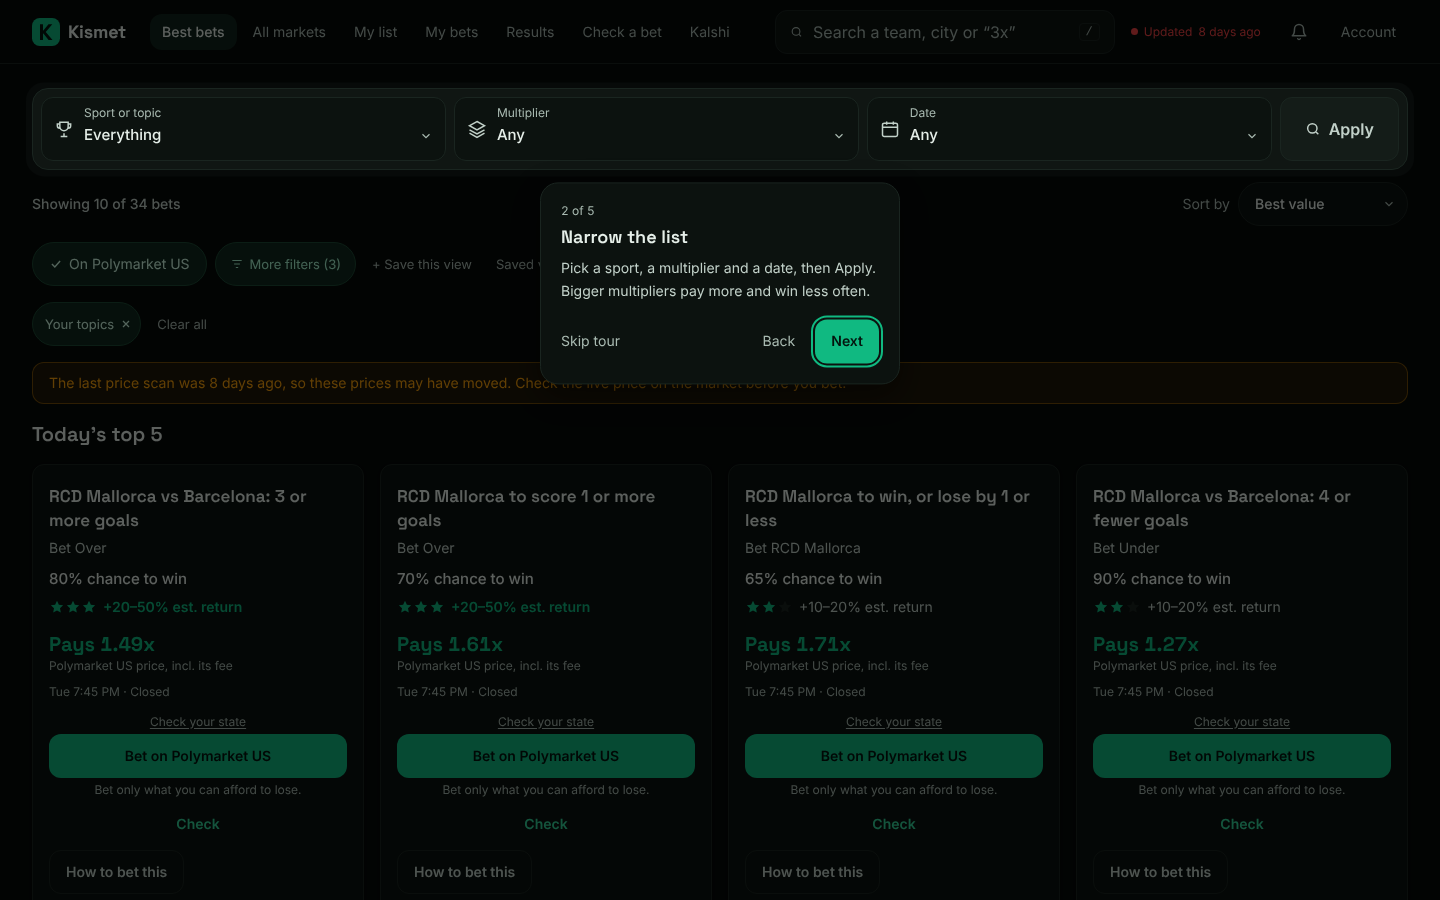
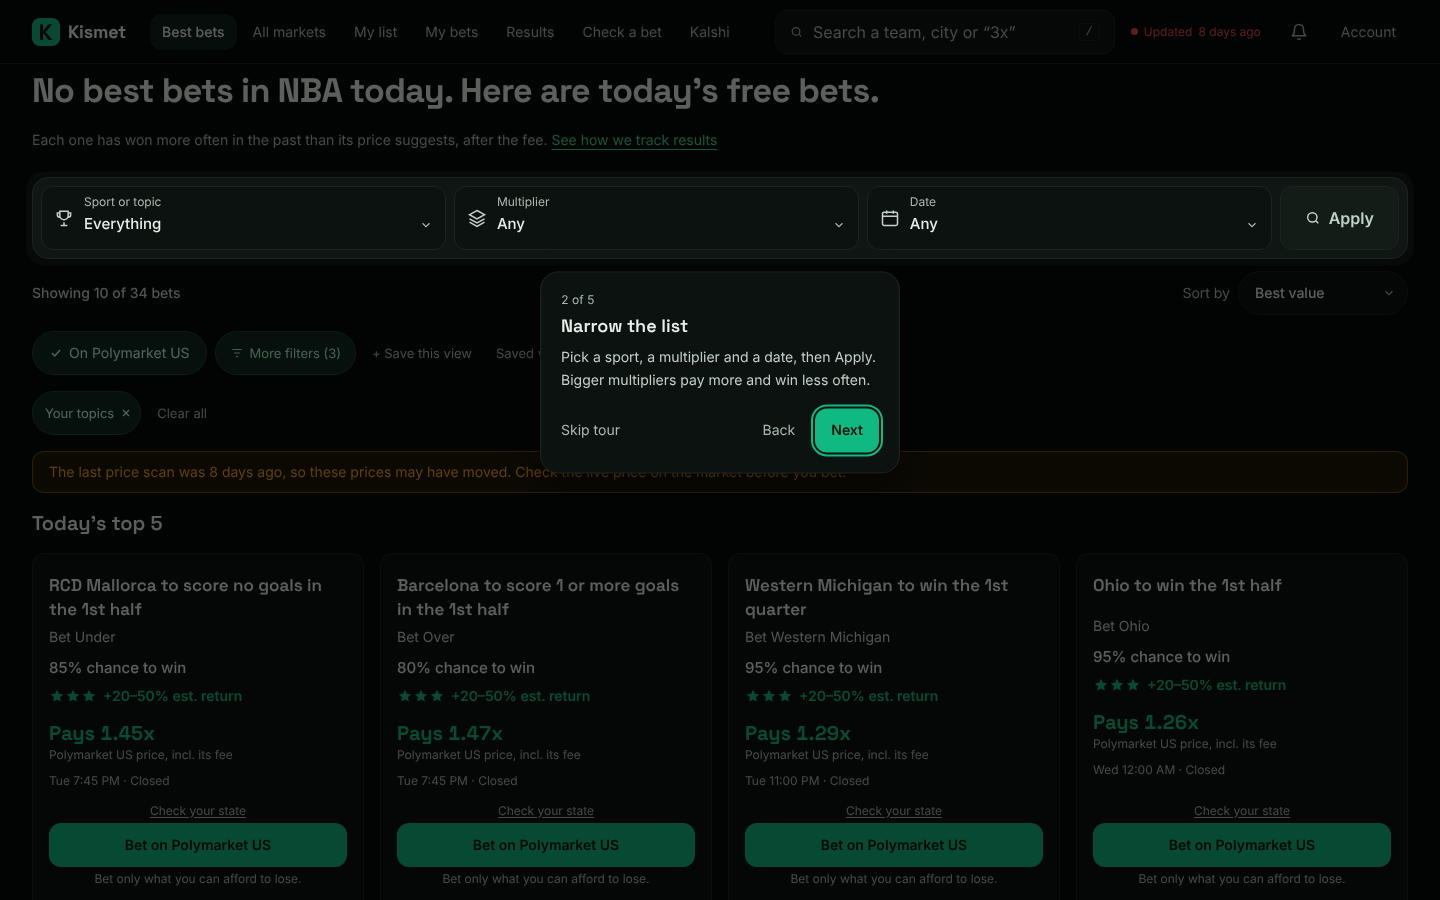
T-wt2f: tour skips hidden targets, never scrolls for pinned ones, scrolls minimally, restores scroll
Claude-Session: https://claude.ai/code/session_01Xq7uwd4fAao58TRNq55oo4

diff --git a/apps/web/e2e-paid/launch-wt2f-tour.spec.ts b/apps/web/e2e-paid/launch-wt2f-tour.spec.ts
@@ -39,46 +39,83 @@ async function setTopics(page: Page, topic: string) {
   expect(res.status()).toBeLessThan(300);
 }
 
-/** Walk the five steps; each spotlight must be fully inside the viewport, above the tab bar, and not covered by the tour card. */
-async function walk(page: Page, label: string) {
-  const dialog = page.getByTestId("tour").getByRole("dialog");
-  await expect(page.getByRole("dialog", { name: "A best bet" })).toBeVisible({ timeout: 60_000 });
+/** Walk the tour's steps; each spotlight must be fully inside the viewport, above the tab bar, and not covered by the tour card, and the
+ *  tour card must not sit under the tab bar. Logs the scroll per step (evidence for "no needless scrolling"). */
+async function walk(page: Page, label: string, expectStart?: string) {
+  const tour = page.getByTestId("tour");
+  const dialog = tour.getByRole("dialog");
+  await expect(tour).toBeVisible({ timeout: 60_000 });
+  if (expectStart) await expect(page.getByRole("dialog", { name: expectStart })).toBeVisible();
   const vh = page.viewportSize()!.height;
-  for (let i = 1; i <= 5; i++) {
-    await expect(page.getByText(`${i} of 5`)).toBeVisible();
+  const y0 = await page.evaluate(() => scrollY);
+  const log: string[] = [];
+  let prevY = y0;
+  for (let n = 0; n < 5; n++) {
+    const i = Number((await tour.getByText(/^\d of 5$/).innerText()).slice(0, 1));
     await page.waitForTimeout(900);   // the scroll and the 300 ms glide settle
-    const spot = await page.getByTestId("tour-spot").boundingBox();
+    const spot = (await page.getByTestId("tour-spot").count()) ? await page.getByTestId("tour-spot").boundingBox() : null;
     const card = (await dialog.boundingBox())!;
     const nav = page.locator('nav.fixed[aria-label="Main"]');
     const navTop = (await nav.isVisible()) ? (await nav.boundingBox())!.y : vh;
-    expect(spot, `${label} step ${i}: a spotlight`).not.toBeNull();
-    const s = spot!;
+    const y = await page.evaluate(() => scrollY);
+    log.push(`${i}:${Math.round(y - y0)}`);
+    expect(card.y + card.height, `${label} step ${i}: the tour card is above the tab bar`).toBeLessThanOrEqual(navTop + 0.5);
+    expect(card.y, `${label} step ${i}: the tour card is on screen`).toBeGreaterThanOrEqual(0);
+    if (!spot) { expect(label, `${label} step ${i}: a spotlight`).toBe("premium-empty"); expect(i, "only the last step may have no target on a phone").toBe(5); await shot(page, `tour-${label}-${i}`); break; }
+    const s = spot;
     // the ring is the target plus 6 px padding; the target itself must be in view
     expect(s.y + 6, `${label} step ${i}: target top in view`).toBeGreaterThanOrEqual(0);
-    expect(s.y + s.height - 6, `${label} step ${i}: target above the tab bar (${navTop})`).toBeLessThanOrEqual(navTop);
+    const inBar = s.y + 6 >= navTop - 1;   // a target that IS the tab bar (My list)
+    // the free-bets fallback at 1440 keeps its heading in view, so there the card may run past the bottom: at least 120 px of it is shown
+    const partial = label === "zero" && i === 1 && page.viewportSize()!.width >= 1024;
+    if (partial) expect(navTop - (s.y + 6), `${label} step ${i}: at least 120 px of the card shows`).toBeGreaterThanOrEqual(120);
+    else if (!inBar) expect(s.y + s.height - 6, `${label} step ${i}: target above the tab bar (${navTop})`).toBeLessThanOrEqual(navTop + 0.5);
     const overlap = Math.min(s.x + s.width - 6, card.x + card.width) - Math.max(s.x + 6, card.x) > 0 && Math.min(s.y + s.height - 6, card.y + card.height) - Math.max(s.y + 6, card.y) > 0;
     expect(overlap, `${label} step ${i}: the tour card does not cover the target (target y ${s.y + 6}-${s.y + s.height - 6}, tour card y ${card.y}-${card.y + card.height}, tab bar ${navTop})`).toBe(false);
-    await shot(page, `tour-${label.replace(" ", "-")}-${i}`);
+    // a step whose target is pinned (My list in the phone tab bar) never scrolls the page
+    if (label.includes("empty") && i === 4) expect(Math.abs(y - prevY), "My list is in the tab bar: no scrolling for it").toBeLessThan(2);
+    prevY = y;
+    await shot(page, `tour-${label}-${i}`);
     if (i === 1) await expect(dialog).not.toContainText("$10");
-    if (i < 5) await page.getByTestId("tour").getByRole("button", { name: "Next", exact: true }).click();
+    if (i === 5) break;
+    await tour.getByRole("button", { name: "Next", exact: true }).click();
+    await expect(tour.getByText(`${i + 1} of 5`)).toBeVisible();
   }
+  console.log(`scroll per step (${label} ${page.viewportSize()!.width}px): ${log.join(" ")}`);
+}
+
+async function makePremium(page: Page) {
+  const me = await (await page.request.get("/api/me")).json();
+  const res = await page.request.patch(`/e2e-mock/supabase/rest/v1/subscriptions?user_id=eq.${me.user.id}`, {
+    headers: { authorization: "Bearer e2e-service", apikey: "e2e-service", "content-type": "application/json" }, data: { comp_tier: "premium" },
+  });
+  expect(res.status()).toBeLessThan(300);
+}
+async function emptyTopicAny(page: Page) {
+  for (const t of CANDIDATES) {
+    const r = (await (await page.request.get(`/api/flags?t=${encodeURIComponent(t)}`)).json()) as Flags;
+    if (r.total === 0) return t;
+  }
+  return null;
 }
 
 for (const { w, h } of SIZES) {
-  for (const zero of [false, true]) {
-    test(`tour targets stay on screen at ${w}px, ${zero ? "free-bets fallback" : "cards"}`, async ({ page }) => {
+  for (const kind of ["cards", "zero", "premium-empty"] as const) {
+    test(`tour targets stay on screen at ${w}px, ${kind}`, async ({ page }) => {
       test.setTimeout(300_000);
       await page.setViewportSize({ width: w, height: h });
-      await signUp(page, `wt2f-${zero ? "z" : "c"}-${w}-${Date.now()}@example.com`);
-      if (zero) {
-        const topic = await zeroTopic(page);
+      await signUp(page, `wt2f-${kind}-${w}-${Date.now()}@example.com`);
+      if (kind === "premium-empty") await makePremium(page);
+      if (kind !== "cards") {
+        const topic = kind === "zero" ? await zeroTopic(page) : await emptyTopicAny(page);
         expect(topic).not.toBeNull();
         await setTopics(page, topic!);
       }
       await page.getByRole("button", { name: "Skip setup" }).click();
       await page.waitForURL(/\/(bets|\?|$)|fav=1/, { timeout: 60_000 });
-      await expect(page.locator("article[data-row]").first()).toBeVisible({ timeout: 60_000 });
-      await walk(page, zero ? "zero" : "cards");
+      if (kind === "premium-empty") await expect(page.locator("[data-tour-empty]").first()).toBeVisible({ timeout: 60_000 });
+      else await expect(page.locator("article[data-row]").first()).toBeVisible({ timeout: 60_000 });
+      await walk(page, kind, kind === "premium-empty" ? undefined : "A best bet");
     });
   }
 }

diff --git a/apps/web/components/onboarding/Tour.tsx b/apps/web/components/onboarding/Tour.tsx
@@ -25,7 +25,18 @@ const STEPS = [
 /** Step 1 over a Best bets list that came back empty (a topic with no bets today): the tour points at that empty state, in its own words. */
 const EMPTY_STEP = { title: "No best bets in your topics today", body: "Nothing in your topics looks like good value right now. Widen your topics, or see all best bets, and the cards appear here." };
 
-const visible = (el: Element) => { const r = el.getBoundingClientRect(); return r.width > 0 && r.height > 0; };
+/** Really drawn: laid out, and not inside a closed <details> (Chrome still gives its content a position without painting it). */
+const visible = (el: Element) => {
+  const r = el.getBoundingClientRect();
+  if (r.width <= 0 || r.height <= 0) return false;
+  if (typeof el.checkVisibility === "function") return el.checkVisibility();
+  return !el.closest("details:not([open])");
+};
+/** Inside a fixed or sticky element (the phone tab bar, the desktop header): it is always on screen, so the page never scrolls for it. */
+const pinned = (el: Element) => {
+  for (let n: Element | null = el; n && n !== document.body; n = n.parentElement) { const p = getComputedStyle(n).position; if (p === "fixed" || p === "sticky") return true; }
+  return false;
+};
 const find = (sel: readonly string[]) => {
   for (const s of sel) for (const el of document.querySelectorAll(s)) if (visible(el)) return el as HTMLElement;
   return null;
@@ -61,6 +72,7 @@ export function Tour() {
   const [rect, setRect] = useState<DOMRect | null>(null);
   const [onEmpty, setOnEmpty] = useState(false);
   const card = useRef<HTMLDivElement>(null);
+  const startY = useRef<number | null>(null);   // scroll position when the tour began
   const next = useRef<HTMLButtonElement>(null);
   const [pos, setPos] = useState<{ top: number; left: number } | null>(null);
 
@@ -75,11 +87,13 @@ export function Tour() {
       }
       start ||= localStorage.getItem(TOUR_KEY) === "1";
     } catch { /* storage off: replay link still works */ }
-    if (start) setStep(0);
+    if (start) { startY.current = scrollY; setStep(0); }
   }, []);
 
   const end = useCallback(() => {
     setStep(null);
+    // the tour scrolled the page to its targets: put the visitor back where they were (a pill or heading they saw stays where it was)
+    if (startY.current !== null) { scrollTo({ top: startY.current, behavior: "instant" }); startY.current = null; }
     try { localStorage.removeItem(TOUR_KEY); } catch { /* storage off */ }
   }, []);
 
@@ -92,9 +106,22 @@ export function Tour() {
     const head = document.querySelector("header");
     const headBottom = head && getComputedStyle(head).position === "sticky" ? head.getBoundingClientRect().bottom : 0;
     const r = el.getBoundingClientRect();
-    const need = (card.current?.offsetHeight ?? 220) + 12 + 16;   // the tour card, its gap and its margin
-    const inBand = r.top >= headBottom + 4 && r.bottom <= barTop - 4;
-    if (inBand && (r.bottom + need <= barTop || r.top - need >= headBottom + 4)) return;
+    if (pinned(el)) return;
+    const ch = card.current?.offsetHeight ?? 220, cw = card.current?.offsetWidth ?? 360;
+    const need = ch + 12 + 16;   // the tour card, its gap and its margin
+    const lo = headBottom + 4, hi = barTop - 4;
+    const room = (top: number, bottom: number) => bottom + need <= barTop || top - need >= lo || r.right + 12 + cw <= innerWidth - 16 || r.left - 12 - cw >= 16;   // the card fits below, above or beside
+    if (r.top >= lo && r.bottom <= hi && room(r.top, r.bottom)) return;   // already in the band with room for the card: no scrolling
+    // otherwise move as little as keeps the target in the band (the heading above it stays in view where it can) ...
+    // On a desktop the heading that explains the free-bets fallback never scrolls out of view (a phone shows the whole card instead): past that point the card is only partly shown.
+    const h1 = document.querySelector("h1[data-free-fallback]");
+    const cap = h1 && innerWidth >= 1024 ? Math.max(0, h1.getBoundingClientRect().top - (lo + 4)) : Infinity;
+    if (r.height <= hi - lo) {
+      const d = r.top < lo ? r.top - (lo + 4) : r.bottom > hi ? r.bottom - (hi - 4) : 0;
+      if (d > cap) return scrollBy({ top: cap, behavior: "instant" });
+      if (room(r.top - d, r.bottom - d)) return scrollBy({ top: d, behavior: "instant" });
+    }
+    // ... else put the target as near the top of the band as the card needs (a tall card on a phone)
     const top = Math.min(88, Math.max(headBottom + 8, barTop - need - r.height));
     scrollBy({ top: r.top - top, behavior: "instant" });
   };

diff --git a/apps/web/e2e-paid/wt2b-topic-no-bets.spec.ts b/apps/web/e2e-paid/wt2b-topic-no-bets.spec.ts
@@ -77,10 +77,22 @@ for (const { w, h } of SIZES) {
     const tour = page.getByRole("dialog", { name: "A best bet" });
     await expect(tour).toBeVisible({ timeout: 30_000 });
     await page.waitForTimeout(800);
-    // T-wt2f: the tour scrolls to the card, so the spotlight (the card) is on screen above the tab bar; the h1 may scroll away
+    // T-wt2f: the spotlit card is visible, the tour card neither covers it nor sits under the phone tab bar; at 1440 the heading stays in view
     const spot = (await page.getByTestId("tour-spot").boundingBox())!;
+    const tcard = (await tour.boundingBox())!;
+    const nav = page.locator('nav.fixed[aria-label="Main"]');
+    const navTop = (await nav.isVisible()) ? (await nav.boundingBox())!.y : h;
     expect(spot.y + 6, "the spotlit card's top is on screen").toBeGreaterThanOrEqual(0);
-    expect(spot.y + 6, "and starts above the bottom of the viewport").toBeLessThan(h - 100);
+    if (w < 1024) expect(spot.y + spot.height - 6, "the spotlit card ends above the tab bar").toBeLessThanOrEqual(navTop + 0.5);
+    else expect(navTop - (spot.y + 6), "at 1440 the heading wins: at least 120 px of the card shows").toBeGreaterThanOrEqual(120);
+    expect(tcard.y + tcard.height, "the tour card is above the tab bar").toBeLessThanOrEqual(navTop + 0.5);
+    const hit = Math.min(spot.x + spot.width - 6, tcard.x + tcard.width) - Math.max(spot.x + 6, tcard.x) > 0 && Math.min(spot.y + spot.height - 6, tcard.y + tcard.height) - Math.max(spot.y + 6, tcard.y) > 0;
+    expect(hit, "the tour card does not cover the card it points at").toBe(false);
+    if (w >= 1024) {
+      const box = (await h1.boundingBox())!;
+      expect(box.y, "the h1 is not scrolled off the top").toBeGreaterThanOrEqual(0);
+      expect(box.y + box.height, "the h1 is on screen").toBeLessThanOrEqual(h);
+    }
     const cls = await page.evaluate(() => (window as unknown as { __cls: number }).__cls);
     console.log(`first screen at ${w}px: CLS ${cls.toFixed(4)}`);
     expect(cls).toBeLessThan(0.1);
